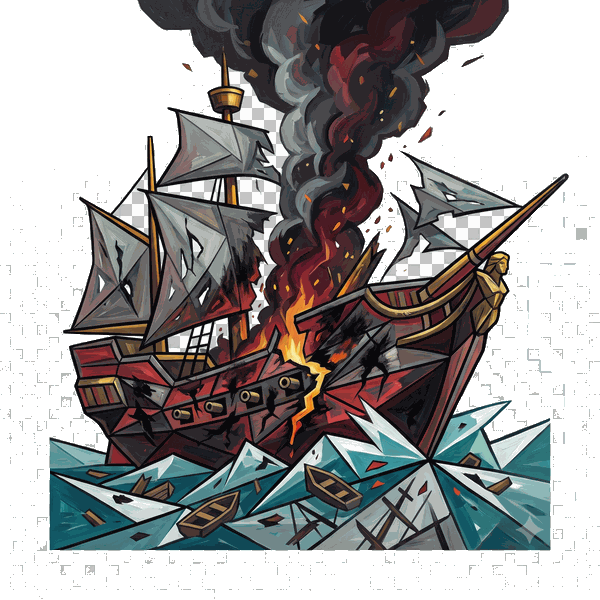
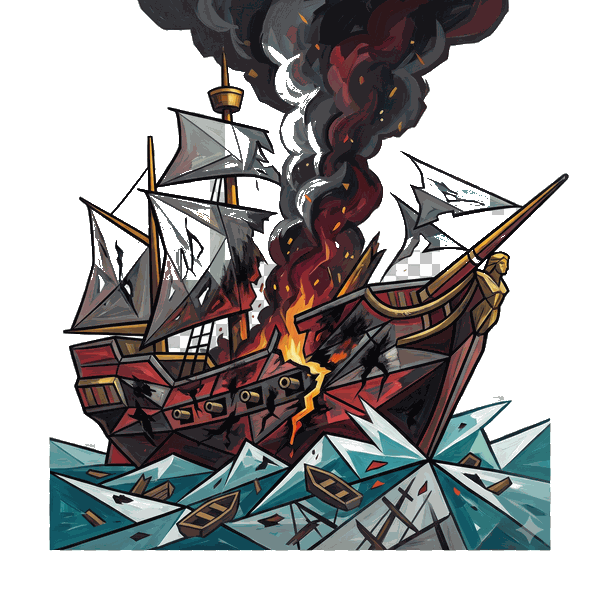
Zafer/bozgun gemi gorselleri: gomulu dama artiklari (izole leke+delikler) temizlendi, buyutuldu, gradient mask ile kenarlari yumusatildi ve arkaya renkli isima halesi eklendi - kutu gibi degil ekrana kaynasmis gorunuyor

diff --git a/src/app/Game.js b/src/app/Game.js
@@ -2638,8 +2638,12 @@ function GameOverScreen({ winner, myHits, oppHits, onNewGame, onHome, onViewBoar
 @keyframes shimmerPass{0%{transform:translate3d(0,0,0)}100%{transform:translate3d(600%,0,0)}}
         `}</style>
         {/* Gemi görseli — zafer: altın ihtişam / bozgun: yaralı ve dumanlı (aynı gemi, iki kader) */}
-        <div style={{ position:"relative",width:"clamp(110px, 34vw, 150px)",height:"clamp(110px, 34vw, 150px)",margin:"0 auto 4px",animation:"goShipIn 0.9s cubic-bezier(0.34,1.56,0.64,1) both" }}>
-          <img src={isWin ? "/img/ship-victory.png" : "/img/ship-defeat.png"} onError={(e)=>{ e.currentTarget.onerror=null; e.currentTarget.src="/img/victory-medal.png"; }} alt="" style={{ width:"100%",height:"100%",objectFit:"contain",animation:"float 3s ease-in-out 0.9s infinite",filter:isWin
+        <div style={{ position:"relative",width:"clamp(140px, 42vw, 190px)",height:"clamp(140px, 42vw, 190px)",margin:"0 auto 4px",animation:"goShipIn 0.9s cubic-bezier(0.34,1.56,0.64,1) both" }}>
+          {/* Atmosferik hale — görsel kutu gibi durmasın, kartın arka planıyla kaynaşsın diye arkada büyük bulanık ışıma */}
+          <span style={{ position:"absolute",inset:"-26%",borderRadius:"50%",background:`radial-gradient(circle, ${isWin?"rgba(255,215,0,0.32)":"rgba(255,71,87,0.28)"} 0%, ${isWin?"rgba(255,215,0,0.12)":"rgba(255,71,87,0.10)"} 45%, transparent 72%)`,filter:"blur(7px)",pointerEvents:"none" }} />
+          <img src={isWin ? "/img/ship-victory.png" : "/img/ship-defeat.png"} onError={(e)=>{ e.currentTarget.onerror=null; e.currentTarget.src="/img/victory-medal.png"; }} alt="" style={{ position:"relative",width:"100%",height:"100%",objectFit:"contain",animation:"float 3s ease-in-out 0.9s infinite",
+            WebkitMaskImage:"radial-gradient(circle at 50% 48%, #000 68%, transparent 96%)",maskImage:"radial-gradient(circle at 50% 48%, #000 68%, transparent 96%)",
+            filter:isWin
             ? `drop-shadow(0 0 22px ${t.goldGlow}) drop-shadow(0 0 46px rgba(0,229,255,0.5)) drop-shadow(0 10px 18px rgba(0,0,0,0.6))`
             : "drop-shadow(0 0 24px rgba(255,71,87,0.55)) drop-shadow(0 10px 18px rgba(0,0,0,0.7))" }} />
           {!isWin && [0,1,2].map(i => (<span key={i} style={{ position:"absolute",bottom:"34%",left:`${40+i*8}%`,fontSize:15,opacity:0,animation:`smokeRise ${2.4+i*0.5}s ease-in ${i*0.6}s infinite`,filter:"blur(1px) grayscale(1) brightness(1.4)",pointerEvents:"none" }}>💨</span>))}
